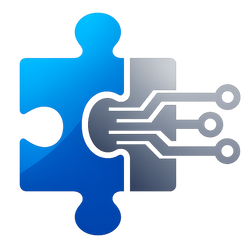
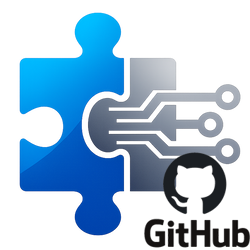
Add CRM company/deal tabs for GitHub repo linking
Added GitHubCompanyTab.razor and GitHubDealTab.razor for linking/unlinking repositories and viewing issues on company and deal records. Introduced shared GitHubEntityTab.razor for managing GitHub data across CRM entities. Updated GitHubConnectorExtension to register new tabs and removed old navigation method. Updated extension icon.

Changed region(s): [[0.56, 0.588, 1.0, 1.0]]

diff --git a/Extensions/GitHubConnectorExtension.cs b/Extensions/GitHubConnectorExtension.cs
@@ -43,12 +43,6 @@ public class GitHubConnectorExtension : ICrmExtension
     public string IconClass => GitHubConnectorModuleInfo.IconClass;
 
     /// <inheritdoc />
-    public List<CrmNavItem> GetNavItems() => new()
-    {
-        new("github", "GitHub", "bi bi-github", 100),
-    };
-
-    /// <inheritdoc />
     public List<CrmDashboardWidget> GetDashboardWidgets() => new()
     {
         new("github-overview", "GitHub Overview", typeof(GitHubOverviewWidget), 10),
@@ -62,6 +56,18 @@ public class GitHubConnectorExtension : ICrmExtension
         new("github-repos", "GitHub Repos", typeof(GitHubContactTab), 50),
         new("github-knowledge-graph", "Knowledge Graph", typeof(GitHubKnowledgeGraphTab), 60),
         new("github-analytics", "Analytics", typeof(GitHubContactAnalyticsTab), 70),
+    };
+
+    /// <inheritdoc />
+    public List<CrmContactTab> GetCompanyTabs() => new()
+    {
+        new("github-repos", "GitHub Repos", typeof(GitHubCompanyTab), 50),
+    };
+
+    /// <inheritdoc />
+    public List<CrmContactTab> GetDealTabs() => new()
+    {
+        new("github-repos", "GitHub Repos", typeof(GitHubDealTab), 50),
     };
 
     /// <inheritdoc />
